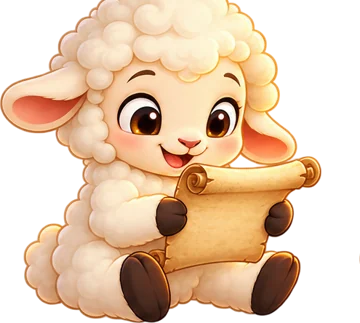
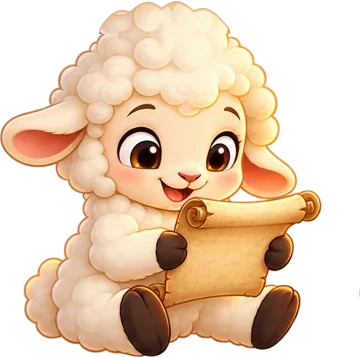
beta: claude v1.5 beta 7 — corrige a cabeça cortada da Lumi (poses dica e lendo) e o piscar
Claude-Session: https://claude.ai/code/session_01ARNi3jRSMCWTmPDkK9G6dJ

diff --git a/beta/sw.js b/beta/sw.js
@@ -1,5 +1,5 @@
-/* Jogos Bíblicos — funciona sem internet. Versão: claude-v1.5-beta6 */
-const CACHE = 'jb-beta-claude-v1.5-beta6';
+/* Jogos Bíblicos — funciona sem internet. Versão: claude-v1.5-beta7 */
+const CACHE = 'jb-beta-claude-v1.5-beta7';
 const ASSETS = ['./', './Lora-Italic-Variable.woff', './Lora-Variable.woff', './app.css', './aurora.svg', './campo.svg', './cidade.svg', './confins.svg', './core.js', './dados-caca.js', './dados-cartas.js', './dados-cruzada.js', './dados-historia1.js', './dados-historia10.js', './dados-historia11.js', './dados-historia12.js', './dados-historia13.js', './dados-historia14.js', './dados-historia15.js', './dados-historia16.js', './dados-historia17.js', './dados-historia18.js', './dados-historia19.js', './dados-historia2.js', './dados-historia20.js', './dados-historia21.js', './dados-historia22.js', './dados-historia23.js', './dados-historia24.js', './dados-historia3.js', './dados-historia4.js', './dados-historia5.js', './dados-historia6.js', './dados-historia7.js', './dados-historia8.js', './dados-historia9.js', './dados-kids.js', './dados-ligacoes.js', './dados-memoria.js', './dados-palavra.js', './dados-quem.js', './dados-quiz.js', './dados-roda.js', './dados-tempo.js', './dados-versiculos.js', './deserto.svg', './galileia.svg', './hub.js', './icon-180.png', './icon-192.png', './icon-512.png', './index.html', './jardim.svg', './jogo-caca.js', './jogo-cartas.js', './jogo-cruzada.js', './jogo-historia.js', './jogo-kids.js', './jogo-ligacoes.js', './jogo-memoria.js', './jogo-palavra.js', './jogo-quem.js', './jogo-quiz.js', './jogo-roda.js', './jogo-tempo.js', './jogo-versiculo.js', './kit.js', './lumi-dica-pisca.webp', './lumi-dica.webp', './lumi-dormindo.webp', './lumi-festa.webp', './lumi-lendo-pisca.webp', './lumi-lendo.webp', './lumi-oi-pisca.webp', './lumi-oi.webp', './lumi-pensando-pisca.webp', './lumi-pensando.webp', './lumi-rosto.webp', './lumi-sarca.webp', './lumi.js', './manifest.webmanifest', './mar.svg', './monte.svg', './noite.svg', './palacio.svg', './solver.js', './tumba.jpg'];
 self.addEventListener('install', e => { e.waitUntil(caches.open(CACHE).then(c => c.addAll(ASSETS)).then(() => self.skipWaiting())); });
 self.addEventListener('activate', e => { e.waitUntil(caches.keys().then(ks => Promise.all(ks.filter(k => k !== CACHE && k.startsWith('jb-beta')).map(k => caches.delete(k)))).then(() => self.clients.claim())); });

diff --git a/beta/lumi.js b/beta/lumi.js
@@ -8,7 +8,7 @@
   //  Quatro poses têm um quadro de "piscar" (olhos fechados) por cima.
   // =====================================================================
   const lumiSrc = n => 'lumi-' + n + '.webp';
-  const BLINK = { oi: [33.76, 21.67, 46.82], pensando: [32.11, 21.94, 48.16], dica: [31.39, 17.70, 41.39], lendo: [29.17, 26.01, 40.83] };
+  const BLINK = { oi: [33.76, 21.67, 46.82], pensando: [32.11, 21.94, 48.16], dica: [32.82, 24.87, 38.21], lendo: [29.17, 33.61, 40.83] };
   const body = p => { const b = BLINK[p]; return `<img class="lu-i" src="${lumiSrc(p)}" alt="" draggable="false">${b ? `<img class="lu-e" src="${lumiSrc(p + '-pisca')}" style="left:${b[0]}%;top:${b[1]}%;width:${b[2]}%" alt="" draggable="false">` : ''}`; };
   const lumiHTML = (p, cls = '') => `<button class="lumi ${cls}" data-pose="${p}" data-lumi aria-label="Lumi"><span class="lu-sh"></span><span class="lu-b">${body(p)}</span><span class="lu-fx"></span></button>`;
   function setPose(lu, p) {

diff --git a/beta/index.html b/beta/index.html
@@ -57,7 +57,7 @@
 <script src="dados-historia22.js"></script>
 <script src="dados-historia23.js"></script>
 <script src="dados-historia24.js"></script>
-<script>window.__BETA='6'</script><script src="core.js"></script>
+<script>window.__BETA='7'</script><script src="core.js"></script>
 <script src="lumi.js"></script>
 <script src="kit.js"></script>
 <script src="hub.js"></script>
